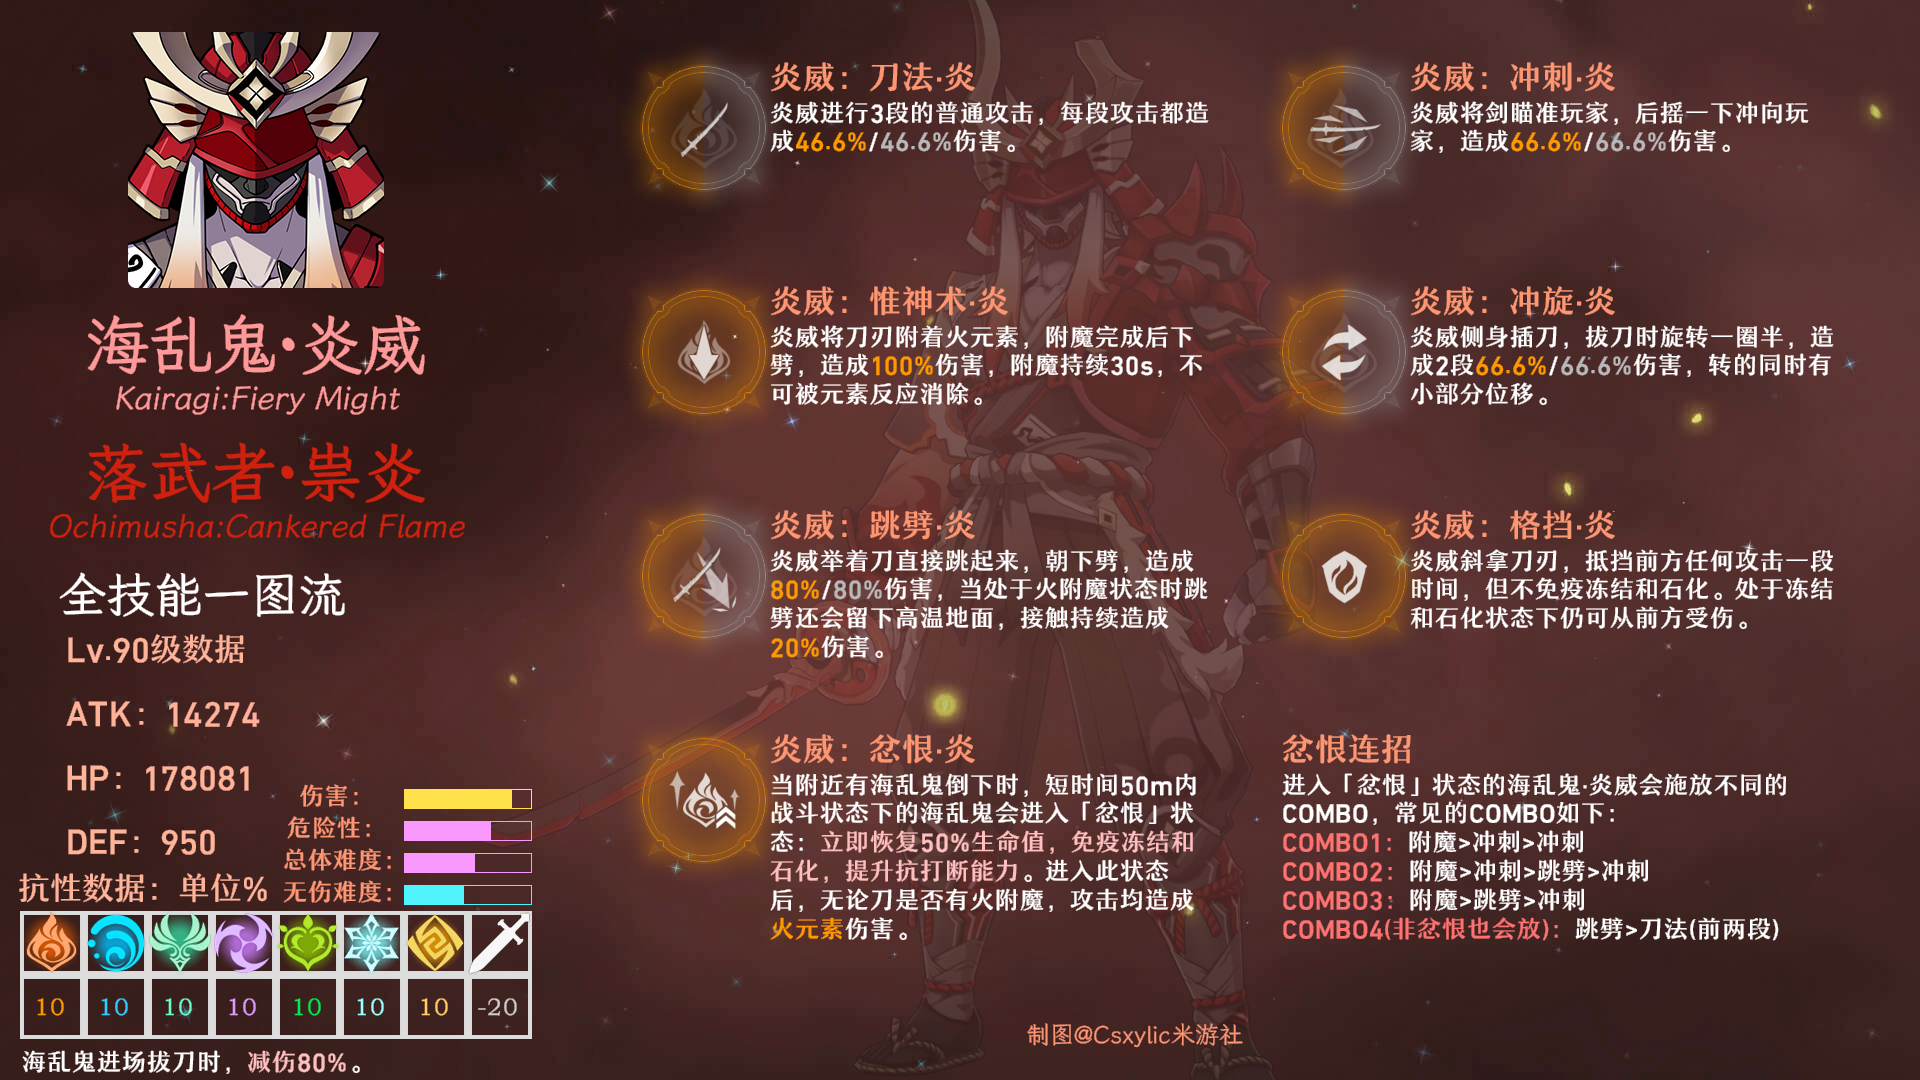
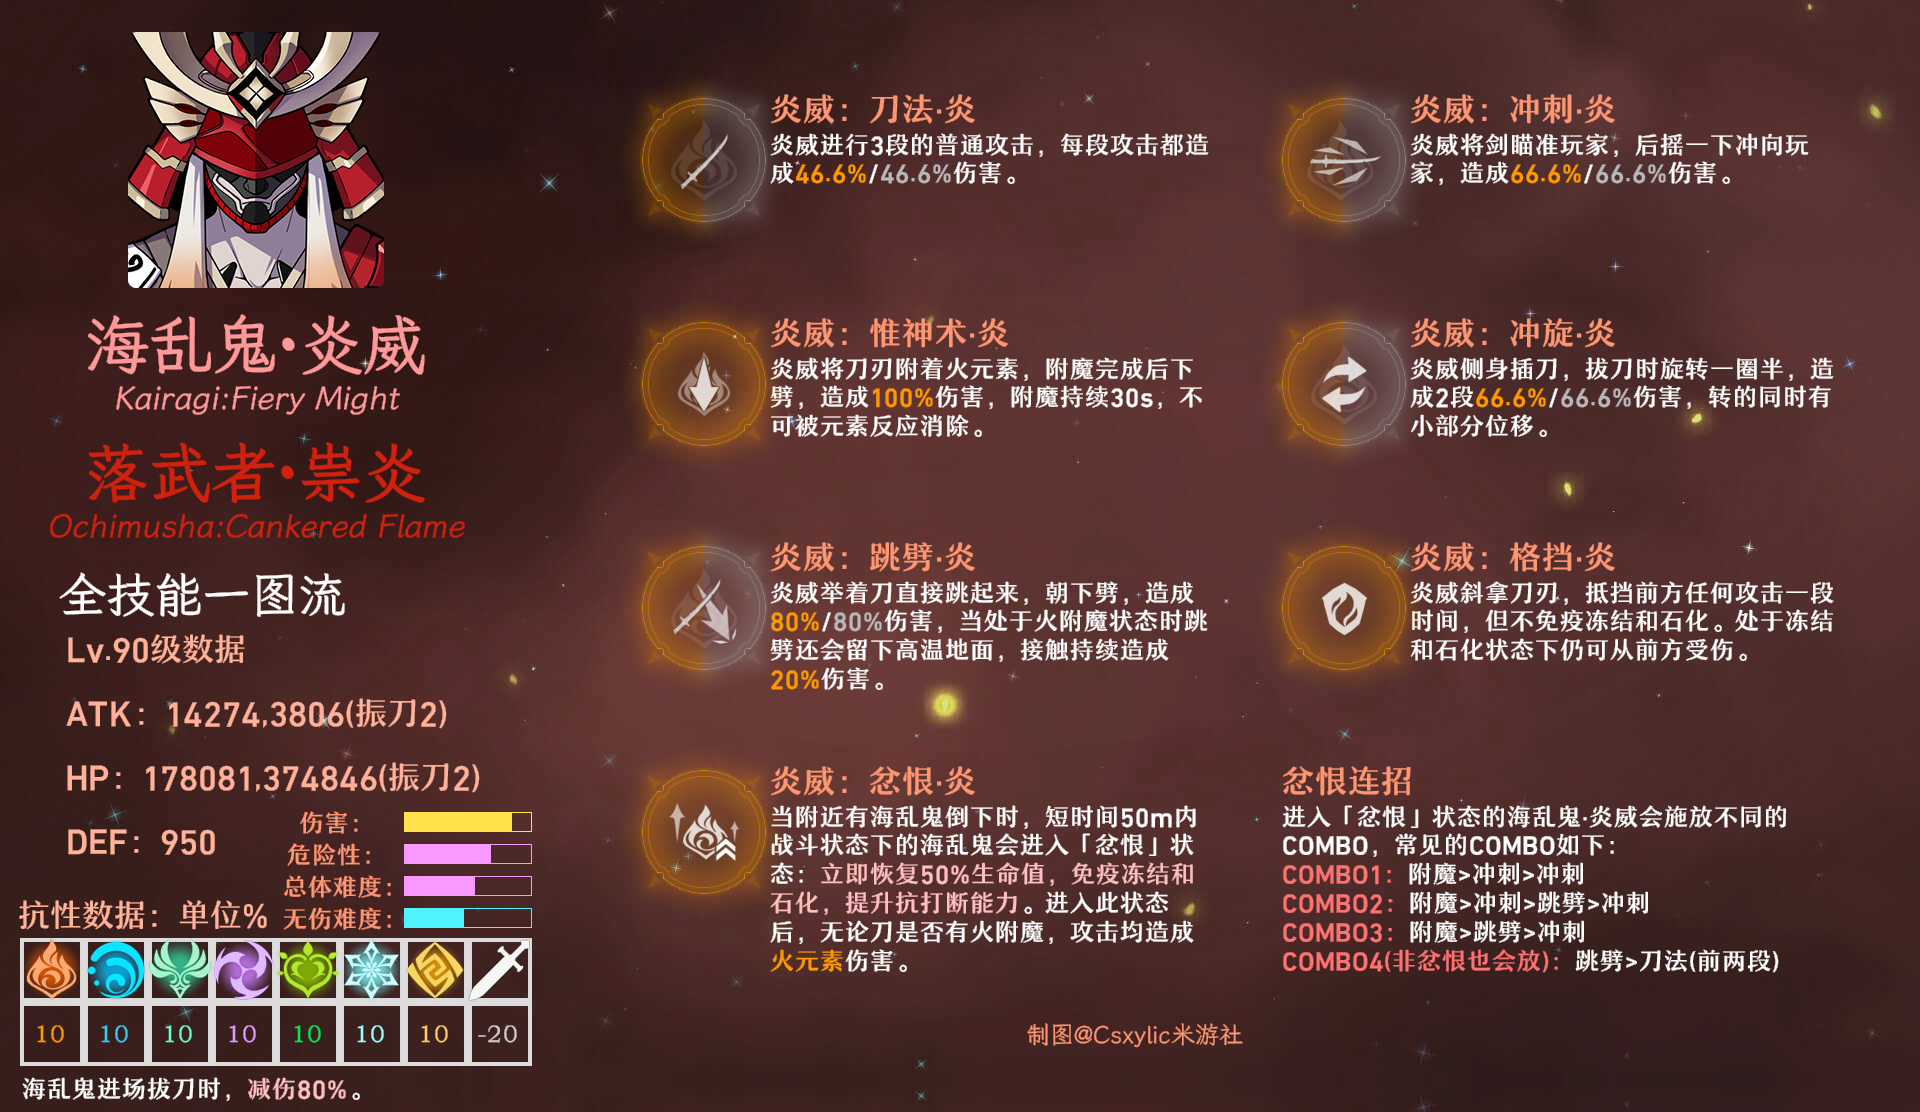
更新3.4振刀活动数据、补全其他剩余原魔

diff --git a/README.md b/README.md
@@ -1,4 +1,3 @@
 # EnemyChart
  米游社《原魔一图流》
- 目前尚未更新的原魔如下：丘丘人、史莱姆、盗宝团
- 预计将在3.3-3.4版本完成全部原魔的一图流
+已完成全部原魔的一图流(02/25/2023)
